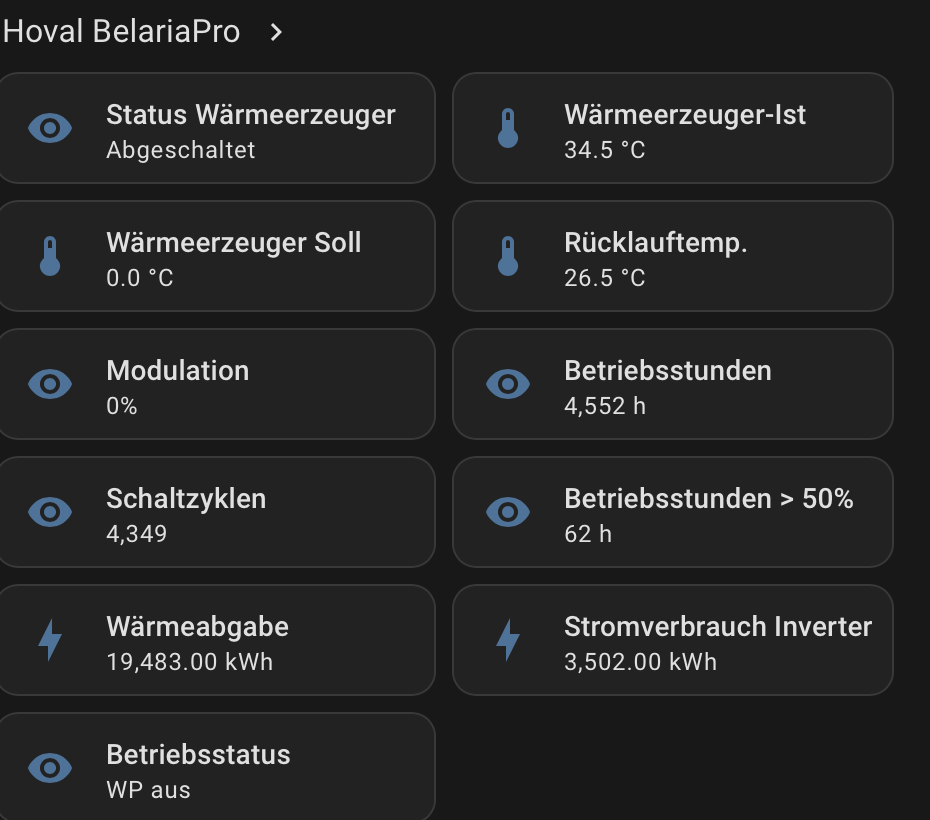
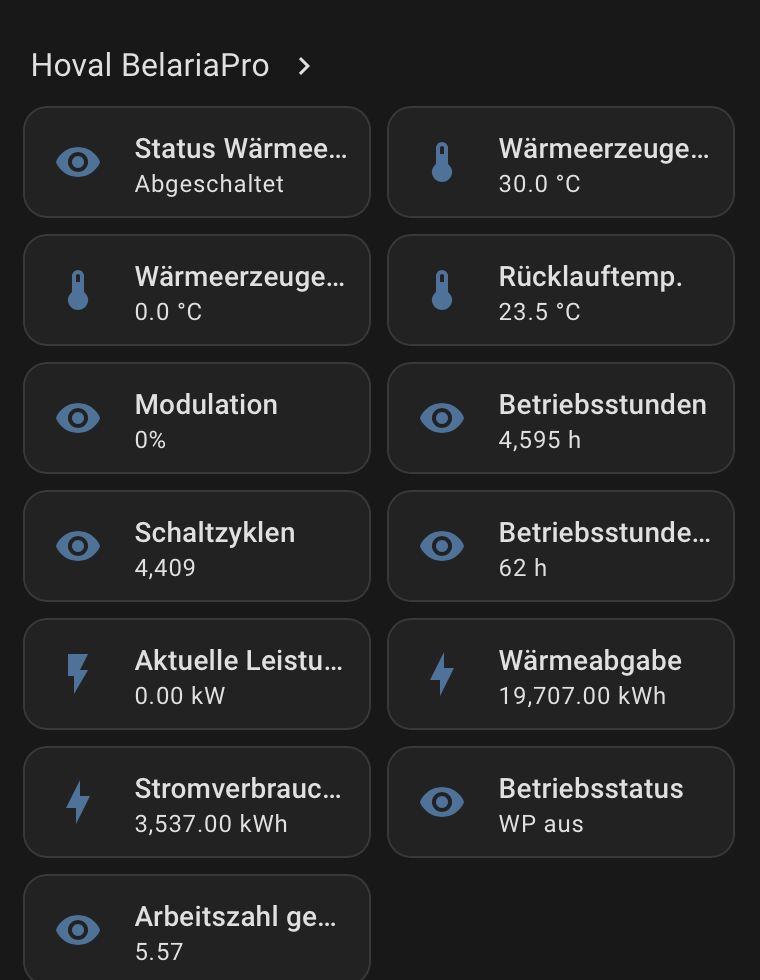
Update Home Assistant documentation screenshots

diff --git a/hovalconnect/DOCS.md b/hovalconnect/DOCS.md
@@ -49,6 +49,10 @@ The WFA-200 operating status sensor uses the WFA-200 status table, for example `
 
 Example Home Assistant device view with German labels:
 
+For the actively tested Belaria setup, Home Assistant exposes the values shown
+in the HovalConnect app and additionally derives `Arbeitszahl gesamt` / COP from
+heat output and inverter energy.
+
 | Temperature cards | Heating circuit |
 | --- | --- |
 | ![Hoval temperature cards in Home Assistant](../docs/images/hoval-ha-climate.png) | ![Hoval heating circuit entities in Home Assistant](../docs/images/hoval-ha-heating-circuit.png) |
@@ -56,6 +60,13 @@ Example Home Assistant device view with German labels:
 | Heat pump / heat generator | Hot water |
 | --- | --- |
 | ![Hoval heat pump entities in Home Assistant](../docs/images/hoval-ha-heat-pump.png) | ![Hoval hot water entities in Home Assistant](../docs/images/hoval-ha-hot-water.png) |
+
+The history views show how the heat generator output and status change over the
+day:
+
+| Current output heating | Heat generator status |
+| --- | --- |
+| ![History of current output heating in Home Assistant](../docs/images/hoval-ha-history-current-output-heating.png) | ![History of heat generator status in Home Assistant](../docs/images/hoval-ha-history-heat-generator-status.png) |
 
 ## Network and Security
 

diff --git a/README.md b/README.md
@@ -54,6 +54,10 @@ language. The language setting only affects this integration.
 
 Example Home Assistant device view with German labels:
 
+For the actively tested Belaria setup, Home Assistant exposes the values shown
+in the HovalConnect app and additionally derives `Arbeitszahl gesamt` / COP from
+heat output and inverter energy.
+
 | Temperature cards | Heating circuit |
 | --- | --- |
 | ![Hoval temperature cards in Home Assistant](docs/images/hoval-ha-climate.png) | ![Hoval heating circuit entities in Home Assistant](docs/images/hoval-ha-heating-circuit.png) |
@@ -61,6 +65,13 @@ Example Home Assistant device view with German labels:
 | Heat pump / heat generator | Hot water |
 | --- | --- |
 | ![Hoval heat pump entities in Home Assistant](docs/images/hoval-ha-heat-pump.png) | ![Hoval hot water entities in Home Assistant](docs/images/hoval-ha-hot-water.png) |
+
+The history views show how the heat generator output and status change over the
+day:
+
+| Current output heating | Heat generator status |
+| --- | --- |
+| ![History of current output heating in Home Assistant](docs/images/hoval-ha-history-current-output-heating.png) | ![History of heat generator status in Home Assistant](docs/images/hoval-ha-history-heat-generator-status.png) |
 
 ## Exposed Values
 
